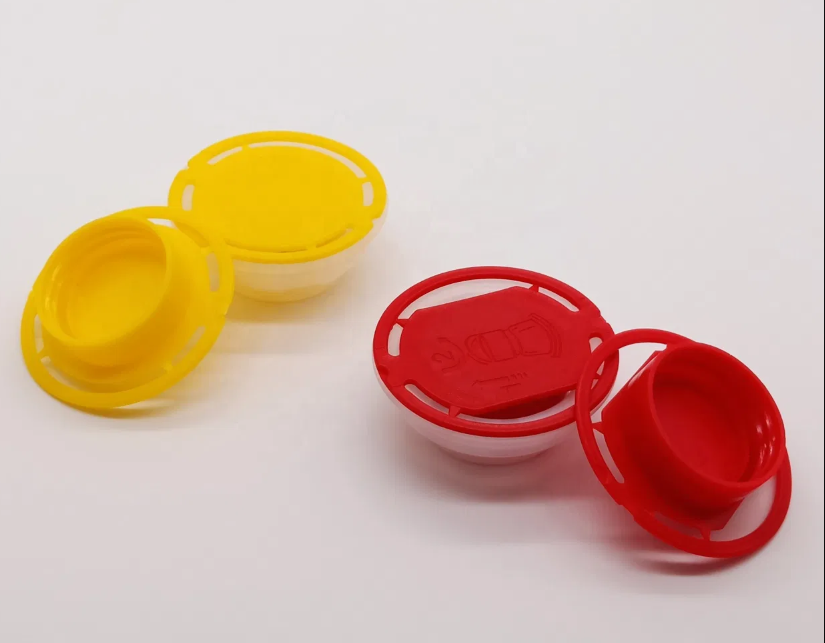
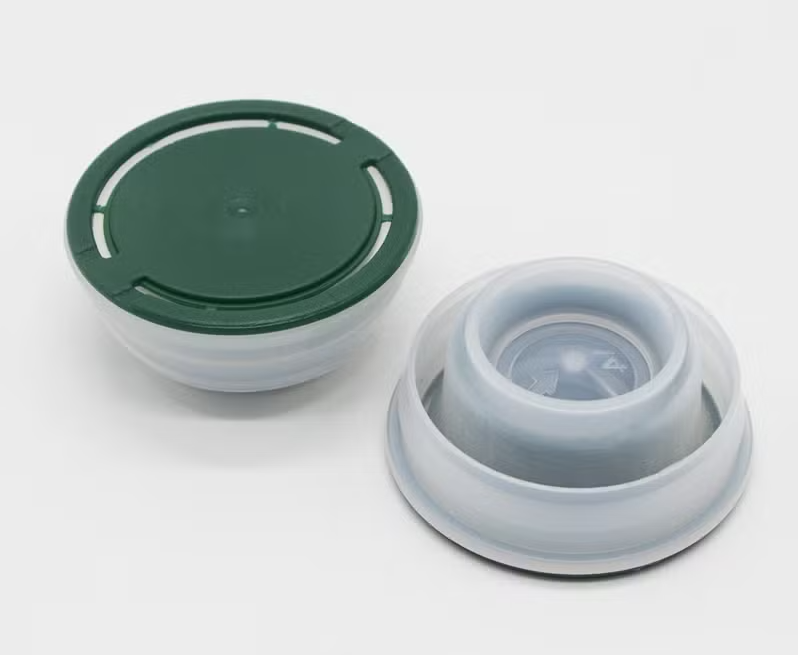
\fix: replace SV67 product image with new version containing original background"

diff --git a/src/components/ProductsSection.tsx b/src/components/ProductsSection.tsx
@@ -130,7 +130,7 @@ const productsData: Product[] = [
   {
     id: 'sv67',
     name: 'SV67 (67mm Press-Fit Spout Cap)',
-    image: '/images/product_sv67_transparent.png',
+    image: '/images/product_sv67_new.png',
     categories: ['spout', 'food-grade', 'jerry-can', 'tamper-evident'],
     material: 'HD/LDPE',
     closureType: 'Pull out type Spout',
